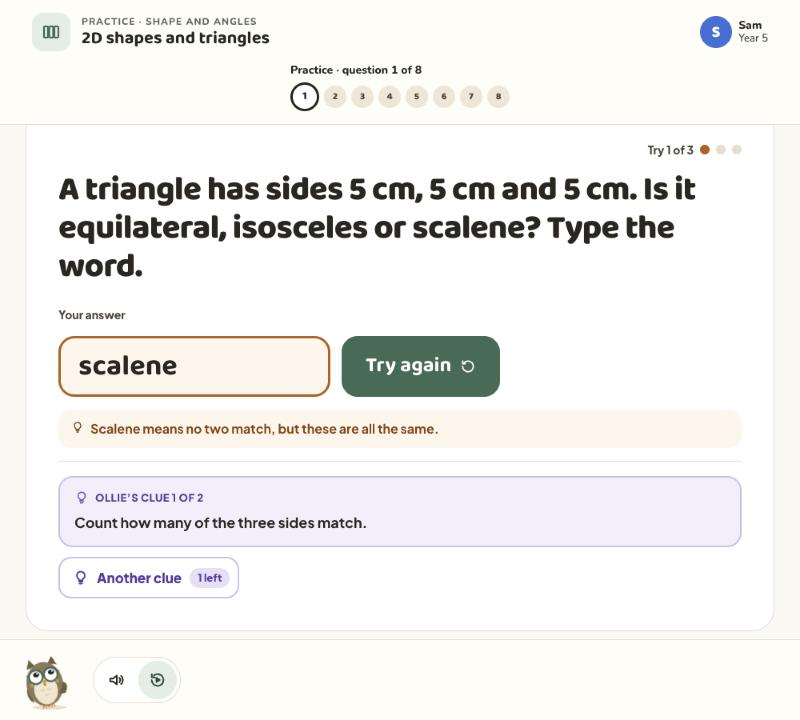
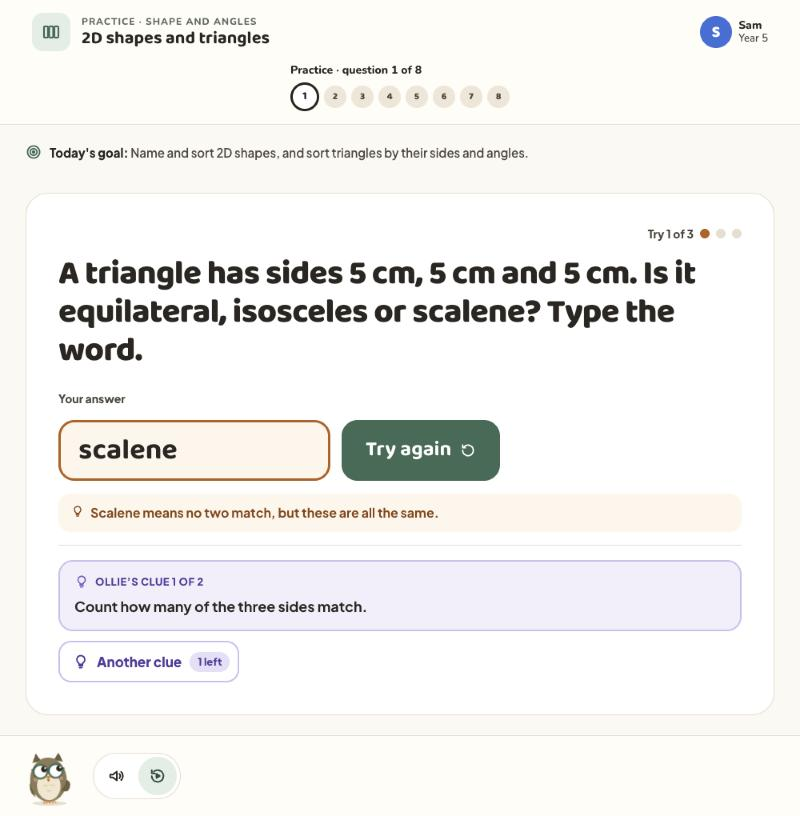
Let the answer box match what the answer actually is
Every question got inputmode="decimal" and a "Type your number" placeholder,
including ones whose answer is a word. On an iPad that hands the child a
number pad with no letters on it, so "equilateral" cannot be typed at all —
the placeholder asking for the wrong thing is the smaller half of it.

The page already has q.answer client-side, so the input follows it: a word
answer gets inputmode="text" and "Type your answer", everything else is
unchanged.

diff --git a/public/index.html b/public/index.html
@@ -1452,7 +1452,12 @@ body{min-height:100svh;min-height:var(--vvh,100svh)}
     var given = state.lastGiven||'';
     var slip = isWrong ? (slips[normalise(given)] || slips[given] || null) : null;
     stageAction.appendChild(h('<div class="ol-answer-label">Your answer</div>'));
-    var inp=h('<input type="text" inputmode="decimal" autocomplete="off" id="ans" aria-label="Your answer" placeholder="Type your number" '+
+    // A word answer ("equilateral", "isosceles") needs letters. inputmode="decimal"
+    // hands an iPad a number pad with no letters on it at all, so the child cannot
+    // type the answer; the placeholder then asks for the wrong thing on top of that.
+    var wordAnswer = /[a-z]/i.test(String(q.answer == null ? '' : q.answer));
+    var inp=h('<input type="text" inputmode="'+(wordAnswer?'text':'decimal')+'" autocomplete="off" id="ans" aria-label="Your answer" '+
+      'placeholder="'+(wordAnswer?'Type your answer':'Type your number')+'" '+
       'class="ol-answer"'+(isWrong?' data-state="retry"':'')+'>');
     if(isWrong) inp.value = state.lastGiven || '';
     var go =h('<button type="button" class="ol-btn ol-btn--primary">'+
